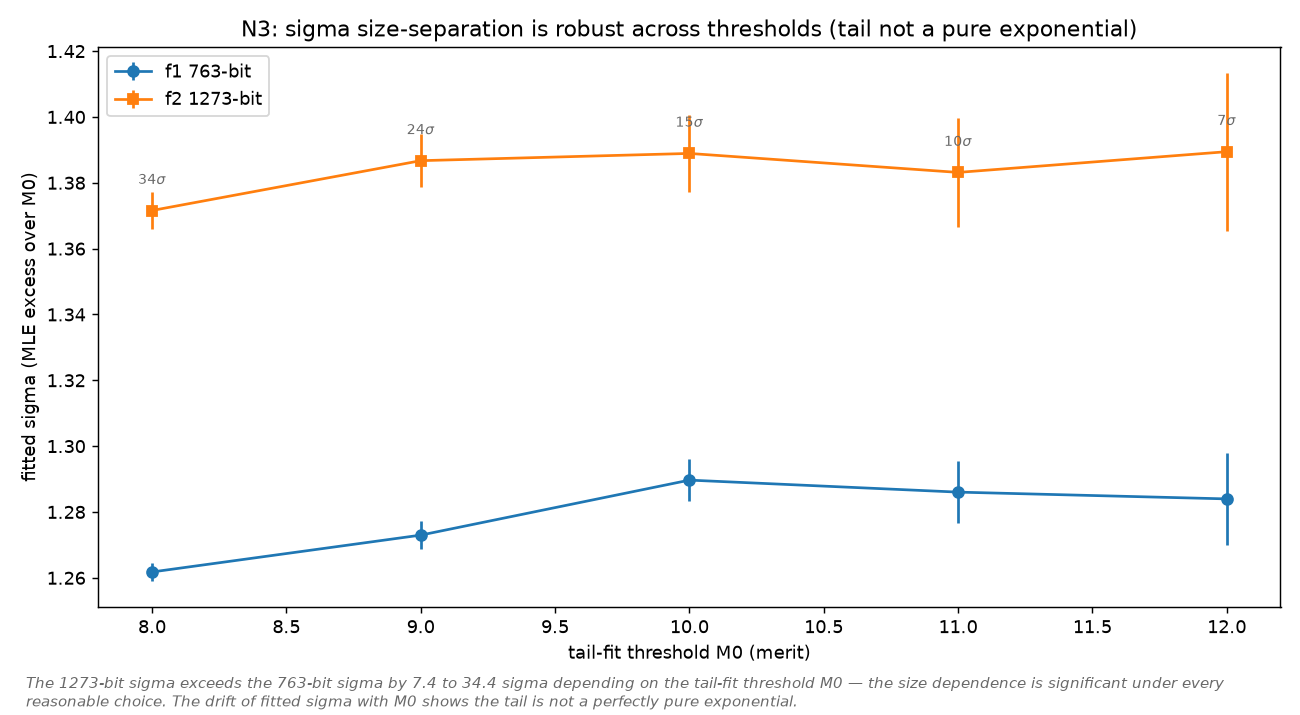
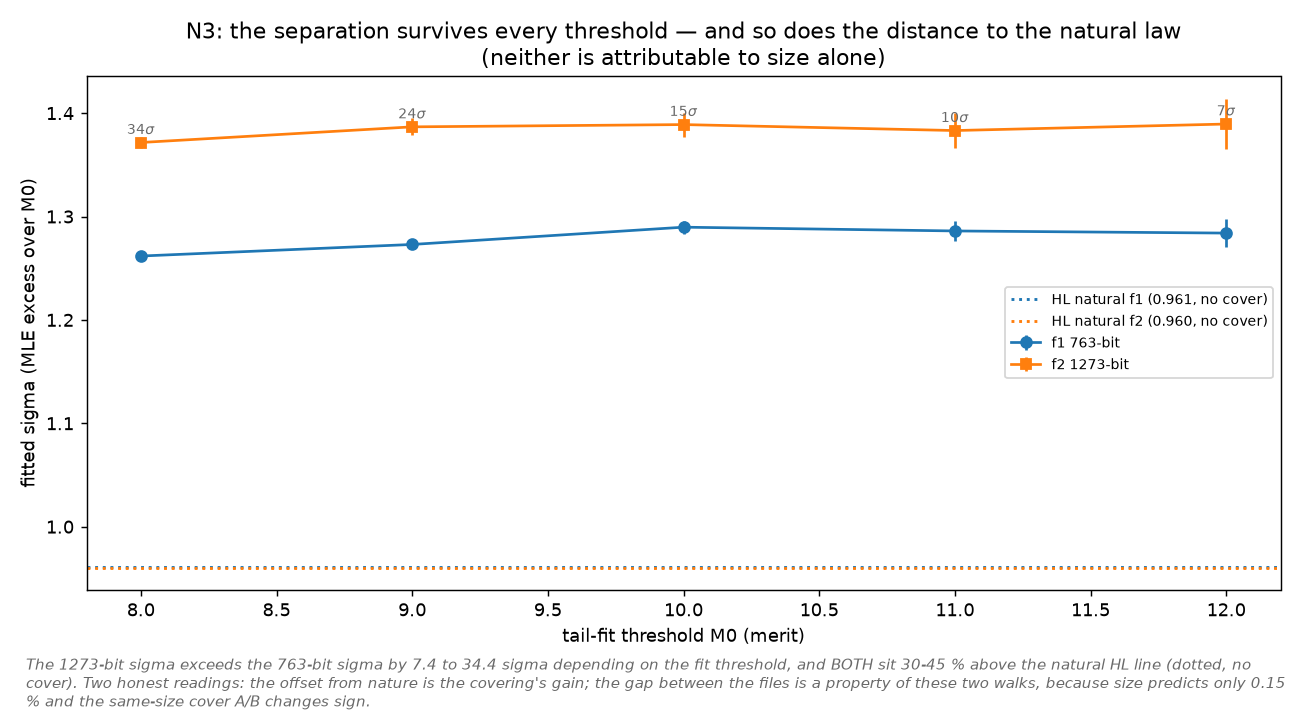
Refresh figures, coverage cert, fleet configs, gitignore
- analysis/: regenerated N3 figures plus the new n3_bands.png (band-resolved
  sigma against the natural-law reference).
- tail_compare_*.png: record-log tail comparison against the HL natural baseline.
- docs/COVERAGE_CERT.md updated; docs/HORIZON_COMPARISON.md removed (it is
  listed in .gitignore, so the deletion is intentional).
- gap_hunt_fleet*.conf: fleet hunt configuration updates.
- .gitignore: ignore the live large-L hunt files (data/gap_hunt_records_1784.txt,
  data/gap_hunt_state_1784.txt); the record log gap_hunt_records_found_1784.txt
  stays tracked, and it carries the merit-table snapshot header (sha b2bebffe)
  the watcher compares every claimed record against.

diff --git a/docs/COVERAGE_CERT.md b/docs/COVERAGE_CERT.md
@@ -1,6 +1,7 @@
 # Coverage Certificates (CRT covering optimality + deployment)
 
-Status: ISSUED 2026-09-07. Companion to `docs/COVERAGE_MAX_EXPERIMENT.md`
+Status: ISSUED 2026-09-07; Certificates E and F added 2026-09-20. Companion to
+`docs/COVERAGE_MAX_EXPERIMENT.md`
 (full method, provenance, runtimes). Tool: `tools/cover_max.c` →
 `bin/cover_max`, evaluator linked from the repo's own `covering.o`.
 
@@ -66,6 +67,86 @@ Status: ISSUED 2026-09-07. Companion to `docs/COVERAGE_MAX_EXPERIMENT.md`
 - Layer: *exact fact* (the two survivor counts and test outcomes above).
 - Deployment: fleet lines pending user decision (merit-30+ hunt setup).
 
+## Certificate E — p128 m40 config, new best of the shift998 family (issued 2026-09-20)
+
+Same geometry across the whole family (128 primes, `shift 998`,
+`gap_target 34769`, merit 40.00) — so the comparison is exact. Survivors were
+recomputed independently from the `(p, r)` rows for every file; **all 7 headers
+matched the recomputation**:
+
+| file | survivors | coverage |
+|---|---|---|
+| `shift998_p128_strong_m40_run.txt` | 2857 | 91.78 % |
+| `shift998_p128_weaklex_m40.txt` | 2357 | 93.22 % |
+| `shift998_p128_strong_m40_lex.txt` | 2350 | 93.24 % |
+| `shift998_p128_strong_m40_s300.txt` | 2344 | 93.26 % |
+| `shift998_p128_strong_m40.txt` | 2191 | 93.70 % |
+| Old file: `shift998_p128_lex_m40.txt` | 2186 | 93.71 % |
+| **Certified: `shift998_p128_covermax_m40.txt`** | **2177** | **93.7385 %** |
+
+- **Certified value: 2177 survivors = 93.7385 % coverage** (−9 survivors,
+  −0.41 %, +0.03 pp over the old `lex_m40` file; −680 over the worst sibling).
+- Evidence: **337 restarts / 600 s** (`--seed 20260920`), best found at restart 0
+  (elapsed 2 s) and no improvement in the remaining 336 restarts; the search's
+  `--out` file came back **byte-identical** to the input, i.e. the constellation
+  is a fixed point of the search. `cover_max --file` reports
+  `file n_candidates=2177, evaluator says 2177 (MATCH)`.
+- Independent Python re-check of the constellation (covermax vs lex): longest
+  covered run **111 vs 111** (tie), mean forward run **14.96 vs 14.90** (better),
+  survivors **2177 vs 2186** (better) — no regression on any measured statistic.
+- Validation: `bin/test_crt_runtime data/crt/m23/shift998_p128_covermax_m40.txt`
+  → **ALL TESTS PASSED** (`window primes=39  natural~44.0  ratio=0.89`, i.e. the
+  aligned window is demonstrably prime-poor; window 69 538, survivors 5 088).
+- Geometry check: `log2(prod p) = 989.92 < 998` → **8.08 bits of headroom**, so
+  the primorial still fits inside the shift (the `ctr_bits = 8` convention).
+- Note on the target: `gap_target 34769` is **odd**, so the table-credited length
+  is the even **34 768** (merit 39.9998 ≈ 40.00); the covering marks offsets
+  34 763–34 769, the first uncovered offset is 16 and the last 34 762. A future
+  generator revision should print the even target.
+- Layer: *exact fact* (every survivor count, coverage figure, test outcome and
+  search datum above). "Cannot be improved within the search class of
+  `tools/cover_max.c`" is *derived inference* from 337 restarts — no exact
+  global optimum is computed.
+- Deployment: **certified, not deployed** — fleet lines pending user decision.
+  For a merit-40 hunt the line is this file, one walker per GPU,
+  `--gap-hunt-min-merit 20` (a low threshold reports more gaps per hour at the
+  same record rate, see `docs/RECORD_RATE_MODEL.md` §4).
+
+## Certificate F — p43 m40 config improvement (issued 2026-09-20)
+
+- Old file: `data/crt/m23/shift258_p43_strong_m40.txt`
+  → 1311 survivors = 90.8006 % coverage.
+- **Certified file: `data/crt/m23/shift258_p43_covermax_m40.txt`
+  → 1294 survivors = 90.9199 % coverage** (−17 survivors, −1.30 %,
+  +0.12 pp).
+- Evidence: **6129 restarts / 600 s** (`--seed 20260920`), best found at
+  **restart 36 (elapsed 4 s)** and no improvement in the remaining ~6090
+  restarts. Unlike Certificate E, the input file was **not** a local optimum:
+  the search beat it within seconds, so this is an *improvement* certificate
+  (the B/C/D shape); the optimality layer applies to the NEW file only.
+- Independent Python re-check of the constellation (new vs old): longest
+  covered run **107 vs 67**, mean forward run **10.01 vs 9.87**, survivors
+  **1294 vs 1311** — strictly better on every measured statistic, no
+  regression.
+- Validation: `bin/test_crt_runtime data/crt/m23/shift258_p43_covermax_m40.txt`
+  → **ALL TESTS PASSED** (window 28504 survivors **2794**, vs 2814 for the old
+  file; `window primes=39  natural~44.0  ratio=0.89`). Header recomputed
+  independently and cross-checked against the repo evaluator:
+  `cover_max --file` → `evaluator says 1294 (MATCH)`.
+- Geometry unchanged: 43 primes (2..191), `shift 258`, `gap_target 14252`,
+  merit 40.00; `log2(prod p) = 249.19 < 258` → 8.81 bits of headroom.
+- Target context (why this cover exists): gap 14 252 at shift 258 is merit
+  **40.0025**, and the table requires **28.4224** at that length (neighbours
+  27.97 / 29.44 / 31.65) — a merit-40 gap here is a **+11.6 record at 155
+digits**. The rate is the reason to run this geometry at all: 514-bit
+  candidates (CGBN AL=9) cost ~5x less per test than the 1273-bit ones at
+  shift 998 (AL=20), against the weaker cover that 43 primes can buy
+  (9.20 % vs 6.26 % pre-sieve survivors).
+- Layer: *exact fact* (every count and test outcome above). "Improved within
+  the search class of `tools/cover_max.c`" is *derived inference* from 6129
+  restarts; no exact global optimum is computed.
+- Deployment: **certified, not deployed** — fleet lines pending user decision.
+
 ## Deployment record
 
 | Change | File |
@@ -77,7 +158,9 @@ Status: ISSUED 2026-09-07. Companion to `docs/COVERAGE_MAX_EXPERIMENT.md`
 
 Deployed covers: p98 `shift720_p98_covermax_m23.txt` (952 survivors) and p67
 `shift450_p67_covermax_m30.txt` (1101 survivors). Certified, deployment-ready:
-p130 `shift1017_p130_covermax_m30.txt` (1544 survivors).
+p130 `shift1017_p130_covermax_m30.txt` (1544 survivors), p128
+`shift998_p128_covermax_m40.txt` (2177 survivors, Certificate E) and p43
+`shift258_p43_covermax_m40.txt` (1294 survivors, Certificate F).
 
 Commit at deployment: `8cc2a6f` (working tree also carries unrelated
 README/merits changes).
